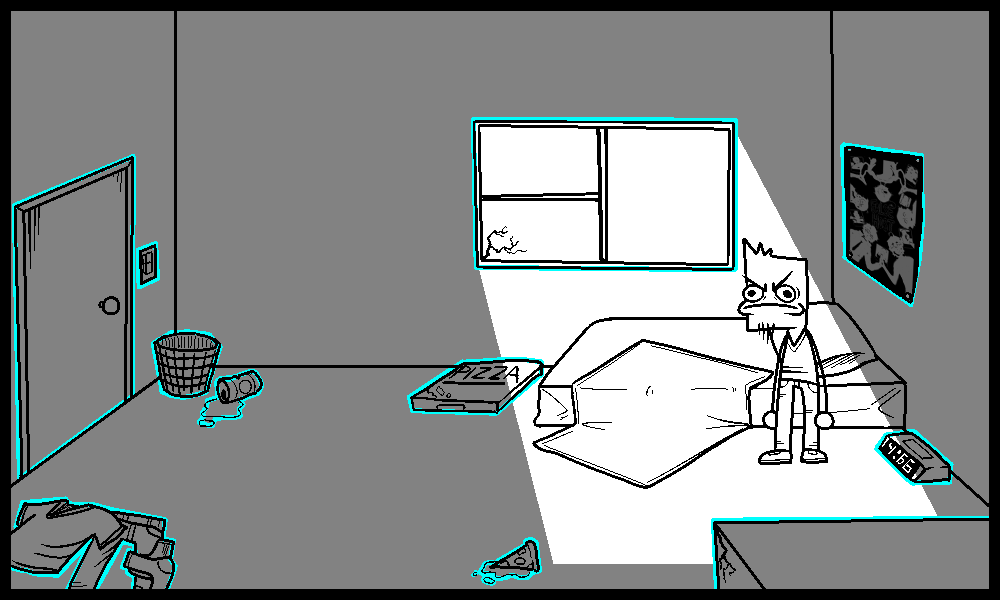
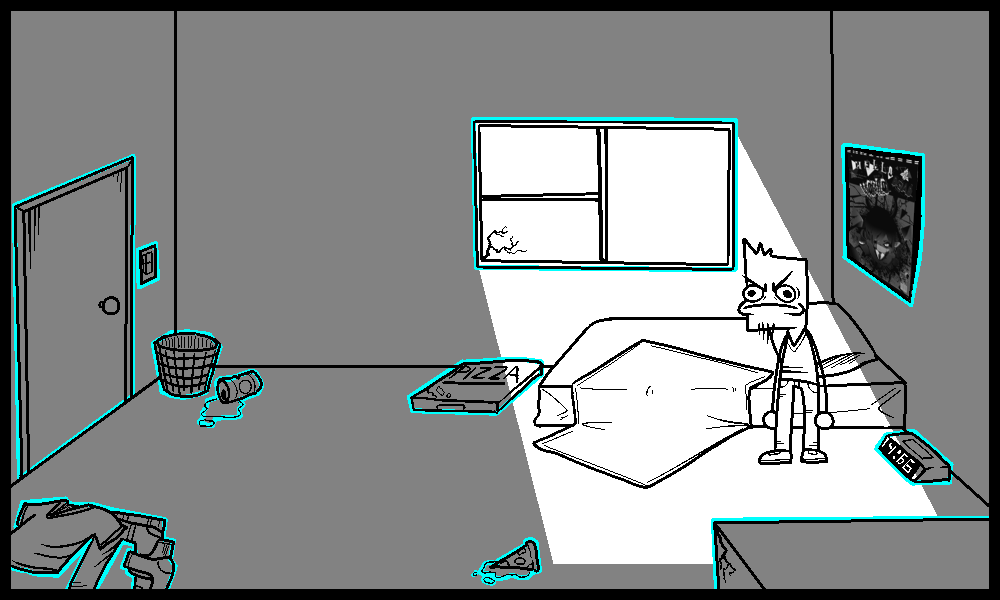
better posters

Changed region(s): [[0.837, 0.24, 0.93, 0.51]]

diff --git a/4/poster/poster.html b/4/poster/poster.html
@@ -10,7 +10,7 @@
   <body>
     <h1>PIZZA QUEST</h1>
     <img class="img" src="poster.png" alt="eks dee">
-    <div class="box"><h2>It's a poster of a webcomic about a bunch """super hero""" kids, Sachiko is such an idiot haha.</h2></div>
+    <div class="box"><h2>This is your Heizenga poster, it should be illegal to be this ... perfect.</h2></div>
     <a href="../4.html"> <h3><-</h3></a>
   </body>
 </html>
